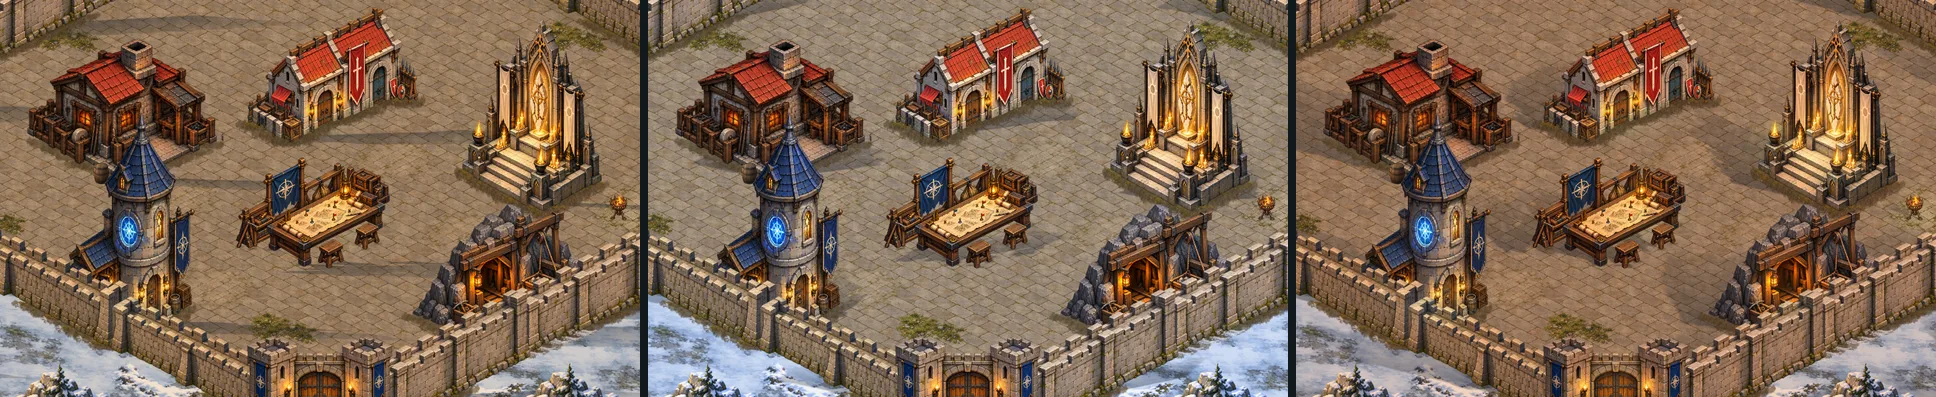
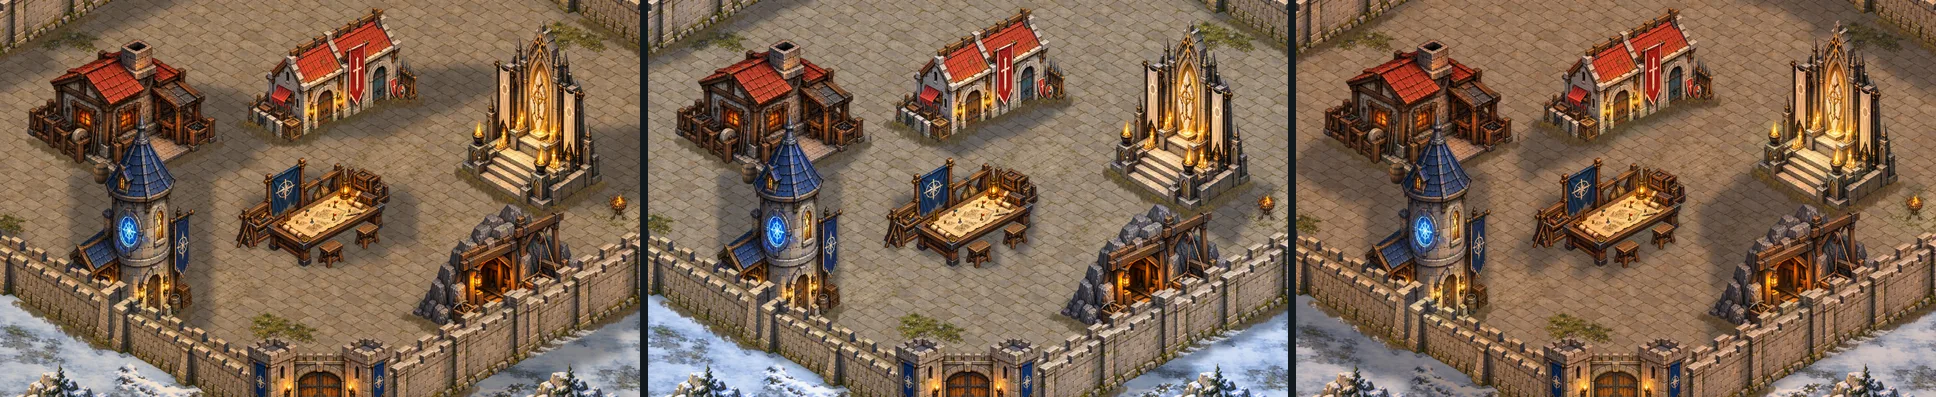
Cast Stronghold sun shadows from solid footprints instead of sheared silhouettes
Shearing a flat sprite silhouette along the sun collapsed it into a thin
sliver: with a low sun every building, wall and tree drew a long stripe
across the court, detached from its base.

- Each upright sprite now stands on a ground footprint: its bottom
  contour, reflected through the contour's end midpoint for the hidden
  back edge (round crown footprints for trees). Per column the sun sweeps
  that footprint by the roof-line height, filled into one 0.35x mask and
  blurred once, so overlaps never double-darken.
- The sun follows the painted art (lit from the upper left): short
  shadows to the lower right at noon, long to the right after sunrise and
  to the left before sunset; length capped at 1.7x height.
- Columns are filled one by one: a single Path2D of thousands of
  subpaths took ~1 s to build in Chrome.
- Docs, before/after images and verification report updated.

diff --git a/src/stronghold/world-view.ts b/src/stronghold/world-view.ts
@@ -43,20 +43,51 @@ export async function createWorldView(canvas:HTMLCanvasElement,onSelect:(id:Buil
  const sc=surface.getContext('2d')!;let dirty=true,frame=0;
  // Day/night lighting is composited into this surface after each raster; see lighting.ts.
  const lighting=createLighting({surface,snowLayer,left,top,width:worldWidth,height:worldHeight,onSun:()=>{dirty=true;requestDraw();}});lighting.setScene(objects);
- // Cast shadows: each upright sprite's silhouette, sheared along the sun's ground direction from its foot.
- // Silhouettes are built once per file (small, pre-blurred, fading with height) so a sun step is plain blits.
- const silhouettes=new Map<string,HTMLCanvasElement>();
- function silhouette(p:{file:string;image:HTMLImageElement;foot:number}){
-  let c=silhouettes.get(p.file);if(c)return c;const k=Math.min(1,256/p.image.width);c=document.createElement('canvas');c.width=Math.ceil(p.image.width*k);c.height=Math.ceil(p.image.height*k);
-  const x=c.getContext('2d')!;x.filter='blur(1.5px)';x.drawImage(p.image,0,0,c.width,c.height);x.filter='none';x.globalCompositeOperation='source-in';
-  const g=x.createLinearGradient(0,0,0,c.height*p.foot);g.addColorStop(0,'rgba(20,28,44,.2)');g.addColorStop(1,'rgba(20,28,44,1)');x.fillStyle=g;x.fillRect(0,0,c.width,c.height);
-  silhouettes.set(p.file,c);return c;
+ // Cast shadows: every upright sprite stands as a solid on its ground footprint. Per sprite column the
+ // footprint spans back..front on screen and the roof line rises `height` above the back edge; the sun
+ // sweeps that span along its ground offset, so a long morning shadow keeps the footprint's depth
+ // instead of collapsing into a sheared sliver. Columns are built once per placed sprite; a sun step
+ // fills them opaque into one 0.35x mask (so overlaps never double-darken) and blurs it once.
+ // Each column is filled on its own: one Path2D of ~7k subpaths took ~1 s to build in Chrome.
+ type Column={x:number;w:number;back:number;front:number;height:number};
+ const profiles=new Map<string,{top:Float32Array;bottom:Float32Array}>(),footprints=new Map<string,Column[]>();
+ // Topmost and lowest opaque pixel of each source column, as fractions of the sprite height (-1 when empty).
+ function profile(image:HTMLImageElement){
+  let r=profiles.get(image.src);if(r)return r;const n=Math.min(256,image.width),m=Math.ceil(image.height*n/image.width),c=document.createElement('canvas');c.width=n;c.height=m;
+  const x=c.getContext('2d',{willReadFrequently:true})!;x.drawImage(image,0,0,n,m);const d=x.getImageData(0,0,n,m).data,top=new Float32Array(n).fill(-1),bottom=new Float32Array(n).fill(-1);
+  for(let i=0;i<n;i++)for(let y=0;y<m;y++)if(d[(y*n+i)*4+3]>128){if(top[i]<0)top[i]=y/m;bottom[i]=(y+1)/m;}
+  r={top,bottom};profiles.set(image.src,r);return r;
  }
+ // Trees stand on a round crown footprint; everything else on its bottom contour reflected through the
+ // midpoint of its left and right ends (a footprint parallelogram is centrally symmetric), which
+ // recovers the hidden back edge of buildings, walls and rocks under any calibrated shear.
+ const round=/^(spruce-mature|fir-young)$/;
+ function footprint(p:(typeof objects)[number]){
+  const key=p.file+'|'+p.x+'|'+p.y+'|'+p.width;let cols=footprints.get(key);if(cols)return cols;cols=[];
+  const {top,bottom}=profile(p.image),n=top.length,filled=[...top.keys()].filter(i=>top[i]>=0),first=filled[0],last=filled[filled.length-1];
+  const at=(u:number,t:number)=>{const lx=-p.width/2+(u+.5)/n*p.width;return {x:p.x+lx,y:p.y+p.shear*lx+p.vertical*(t-p.foot)*p.height};};
+  const front=(j:number)=>{if(j<first||j>last)return -1;const a=bottom[Math.floor(j)],b=bottom[Math.ceil(j)];return a<0?b:b<0?a:a+(b-a)*(j-Math.floor(j));};
+  const ci=(first+last)/2,cy=(bottom[first]+bottom[last])/2;
+  // Columns about 3.5 world px apart; the low-resolution blurred mask hides anything finer.
+  const stride=Math.max(1,Math.round(3.5*n/p.width)),w=p.width/n*stride*1.2;
+  for(let i=first;i<=last;i+=stride){if(top[i]<0)continue;const t=at(i,top[i]);let back:number,front0:number;
+   if(round.test(p.id)){const rx=p.width*.3,d=(t.x-p.x)/rx,s=Math.abs(d)<1?rx*.5*Math.sqrt(1-d*d):0;back=p.y-s;front0=p.y+s;}
+   else{const f=at(i,bottom[i]).y,r=front(2*ci-i);front0=f;back=r<0?f:Math.min(f,at(i,2*cy-r).y);}
+   cols.push({x:t.x,w,back,front:front0,height:Math.max(0,back-t.y)});}
+  footprints.set(key,cols);return cols;
+ }
+ const hull=(points:[number,number][])=>{points.sort((a,b)=>a[0]-b[0]||a[1]-b[1]);const cross=(o:number[],a:number[],b:number[])=>(a[0]-o[0])*(b[1]-o[1])-(a[1]-o[1])*(b[0]-o[0]),chain=(list:[number,number][])=>{const h:[number,number][]=[];for(const q of list){while(h.length>1&&cross(h[h.length-2],h[h.length-1],q)<=0)h.pop();h.push(q);}h.pop();return h;};return [...chain(points),...chain([...points].reverse())];};
+ const SHADE=.35,mask=document.createElement('canvas'),soft=document.createElement('canvas');mask.width=soft.width=Math.ceil(worldWidth*SHADE);mask.height=soft.height=Math.ceil(worldHeight*SHADE);
  function castShadows(){
-  const s=lighting.sun();if(!s.alpha)return;
+  const s=lighting.sun();if(!s.alpha)return;const m=mask.getContext('2d')!,g=soft.getContext('2d')!;
+  m.setTransform(1,0,0,1,0,0);m.clearRect(0,0,mask.width,mask.height);m.setTransform(SHADE,0,0,SHADE,-left*SHADE,-top*SHADE);m.fillStyle='rgb(20,28,44)';
   for(const p of objects){if(p.layer==='ground'||p.opacity<1)continue;
-   // Sprite-local (lx, ly) with ly < 0 above the foot lands at foot + (lx, shear*lx) + height*(dx, dy).
-   sc.save();sc.globalAlpha=s.alpha;sc.translate(p.x,p.y);sc.transform(1,p.shear,-s.dx,-s.dy,0,0);sc.drawImage(silhouette(p),-p.width/2,-p.height*p.foot,p.width,p.height);sc.restore();}
+   for(const c of footprint(p)){const vx=c.height*s.dx,vy=c.height*s.dy,a=c.x-c.w/2,b=c.x+c.w/2;
+    const h=hull([[a,c.back],[b,c.back],[a,c.front],[b,c.front],[a+vx,c.back+vy],[b+vx,c.back+vy],[a+vx,c.front+vy],[b+vx,c.front+vy]]);
+    m.beginPath();h.forEach(([x,y],i)=>i?m.lineTo(x,y):m.moveTo(x,y));m.fill();}}
+  // Penumbra widens with shadow length: crisp at noon, softer for the long low-sun shadows.
+  g.clearRect(0,0,soft.width,soft.height);g.filter=`blur(${(.7+Math.hypot(s.dx,s.dy*2)).toFixed(2)}px)`;g.drawImage(mask,0,0);g.filter='none';
+  sc.save();sc.globalAlpha=s.alpha;sc.drawImage(soft,left,top,worldWidth,worldHeight);sc.restore();
  }
  function paintWorld(){
   sc.setTransform(surface.width/worldWidth,0,0,surface.height/worldHeight,-left*surface.width/worldWidth,-top*surface.height/worldHeight);

diff --git a/src/stronghold/daylight.ts b/src/stronghold/daylight.ts
@@ -44,16 +44,18 @@ export function resolveTime(mode:Mode,now:number,query='',manual:number|null=nul
 }
 // ?lighting=day|night|dynamic picks the mode; the world-only view has no menu, so it is remembered.
 export function modeFrom(query:string,stored:unknown):Mode{const m=new URLSearchParams(query).get('lighting')??stored;return m==='day'||m==='night'?m:'dynamic';}
-// Sun for cast shadows: up from 06:00 to 18:00, crossing the sky from the
-// south-east. dx/dy is the ground offset per pixel of sprite height, in screen
-// space on the 2:1 isometric ground; alpha fades shadows in after sunrise and
-// out before sunset, so the night has none.
-export const SUNRISE=.25,SUNSET=.75,SHADOW_ALPHA=.42;
+// Sun for cast shadows: up from 06:00 to 18:00. The sprites are painted lit from the upper left, so at
+// noon the sun stands there and shadows fall short toward the lower right; the sun's azimuth then turns
+// 180 degrees through the day, so shadows reach long to the right after sunrise and long to the left
+// before sunset. dx/dy is the screen ground offset per screen pixel of height on the 2:1 ground (depth
+// halves, and a screen pixel of height is 1/cos 30 deg of world height); alpha fades shadows in after
+// sunrise and out before sunset, so the night has none.
+export const SUNRISE=.25,SUNSET=.75,SHADOW_ALPHA=.4,NOON_HEADING=60,MAX_ELEVATION=60,MAX_SHADOW=1.7;
 export type Sun={alpha:number;dx:number;dy:number;elevation:number};
 export function sunAt(t:number):Sun{
  const s=(wrap(t)-SUNRISE)/(SUNSET-SUNRISE);if(s<=0||s>=1)return {alpha:0,dx:0,dy:0,elevation:0};
- const arc=Math.sin(Math.PI*s),elevation=arc*55*Math.PI/180,length=Math.min(1.8,1/Math.tan(Math.max(elevation,.01)));
- // Shadow heading swings from lower right at sunrise, through upper right at noon, to upper left at sunset.
- const heading=(30-180*s)*Math.PI/180,fade=Math.min(1,arc/.35),alpha=SHADOW_ALPHA*fade*fade*(3-2*fade);
+ const arc=Math.sin(Math.PI*s),elevation=arc*MAX_ELEVATION*Math.PI/180,length=Math.min(MAX_SHADOW,1/Math.cos(Math.PI/6)/Math.tan(Math.max(elevation,.01)));
+ // Heading on the unsquashed ground, clockwise from screen right: -30 deg at sunrise, 60 at noon, 150 at sunset.
+ const heading=(NOON_HEADING+180*(s-.5))*Math.PI/180,fade=Math.min(1,arc/.35),alpha=SHADOW_ALPHA*fade*fade*(3-2*fade);
  return {alpha,dx:Math.cos(heading)*length,dy:Math.sin(heading)*length*.5,elevation};
 }

diff --git a/docs/lighting/README.md b/docs/lighting/README.md
@@ -16,9 +16,19 @@ One Stronghold day lasts **24 real minutes**: Night → Dawn → Day → Golden 
 
 ### Sun shadows
 
-From 06:00 to 18:00, every upright sprite (buildings, walls, bastions, gateway, trees, rocks, props) casts a soft shadow on the ground. The shadow follows the sun: long and pointing to the lower right after sunrise, short and falling away from the camera at noon, and long toward the upper left before sunset. Shadows fade in after sunrise and out before sunset, so there are none at night. The ambient tint darkens them further at golden hour.
+From 06:00 to 18:00, every upright sprite (buildings, walls, bastions, gateway, trees, rocks, props) casts a soft shadow on the ground. The sprites are painted lit from the upper left, so the sun stands there at noon and shadows fall short toward the lower right. Through the day the sun turns 180°, so shadows reach long to the right after sunrise and long to the left before sunset. Shadow length is capped at 1.7× the object's height, so low-sun shadows never flood the court. Shadows fade in after sunrise and out before sunset, so there are none at night. The ambient tint darkens them further at golden hour.
 
 ![Sun shadows at 07:30, 12:00 and 16:30](https://arkadia-stronghold-whachat.fural.space/lighting-plan/sun-shadows.webp)
+
+#### Fix: stray shadow stripes (21 October 2026)
+
+The first version drew each sprite's flat 2D silhouette sheared along the sun. A sprite has no depth, so with a low sun each shadow collapsed into a thin stripe that ran across the court, detached from its building (reported at 07:46 on mobile):
+
+![Bug report: thin horizontal shadow stripes across the court at 07:46](https://arkadia-stronghold-whachat.fural.space/lighting-plan/shadow-bug-report.webp)
+
+Shadows now come from a solid volume. Each object stands on a ground footprint, and the sun sweeps that footprint, topped by the sprite's roof line, across the ground. Same view at 07:45, before (left) and after (right):
+
+![07:45 before and after: stripes replaced by attached shadows](https://arkadia-stronghold-whachat.fural.space/lighting-plan/shadow-fix-0745.webp)
 
 ### In-game clock
 
@@ -83,7 +93,7 @@ lighting.compose -> screen.snow
 lighting.bake -> screen.flicker
 ```
 
-- **`daylight.ts`**: the pure clock. Keyframes are interpolated in linear light with smoothstep easing, and a readability floor keeps night ambient luma ≥ 0.22. It also handles the URL overrides and the manual clock time (`?time` > pinned hour > `?lighting` mode > live clock). `sunAt(t)` gives the shadow direction, length (capped at 1.8× sprite height) and strength.
+- **`daylight.ts`**: the pure clock. Keyframes are interpolated in linear light with smoothstep easing, and a readability floor keeps night ambient luma ≥ 0.22. It also handles the URL overrides and the manual clock time (`?time` > pinned hour > `?lighting` mode > live clock). `sunAt(t)` gives the shadow direction, length and strength. The heading on the ground is −30° at sunrise, 60° (lower right) at noon and 150° at sunset. Elevation peaks at 60°, length is capped at 1.7× height, and alpha peaks at 0.4.
 - **`light-anchors.ts`**: hand-authored light sources for the 10 lit sprites (Forge levels 1–3, Barracks, Altar, Mage Tower, Expedition Table, Mine, Gateway, Brazier). Each light stores sprite source-pixel coordinates (the same convention as `groundEdges`), a mask radius, its kind (`fire`, `window`, `candle`, `holy`, `arcane`), a ground-pool radius and drop, and an intensity. Lights hidden behind the front walls are mask-only, because the 2D lightmap has no occlusion.
 - **`lighting.ts`**:
   - On a building or selection change, it bakes a 0.35×-resolution light canvas: isometric (0.55-flattened) pools, white emissive masks and a colour bloom. Emissive masks are the authored circles intersected with a flame/arcane pixel test, so the parchment map, gold trim and red roofs never light up.
@@ -91,7 +101,7 @@ lighting.bake -> screen.flicker
   - The infinite snow uses a pre-tinted copy of its repeat tile (a `data:` URL).
   - The selected building gets a soft extra pool, so it stays readable at night.
   - The sun moves in 15-minute steps (15 real seconds of a live day). On a new step it asks the world view to re-raster, deferred while the camera moves. Clock ticks inside a step only relight.
-- **`world-view.ts`** has four lighting hooks: create, `capture()` after `paintWorld`, `place()` beside the surface transform, and `setScene()` in `update()`. It also draws the cast shadows in `paintWorld`, after the ground decals and before any upright sprite, so shadows never darken a building. Each sprite's silhouette is built once per file (≤ 256 px wide, pre-blurred, fading from the foot to the top) and drawn with the sprite's own shear plus the sun's ground offset per pixel of height. Pan frames are unchanged.
+- **`world-view.ts`** has four lighting hooks: create, `capture()` after `paintWorld`, `place()` beside the surface transform, and `setScene()` in `update()`. It also draws the cast shadows in `paintWorld`, after the ground decals and before any upright sprite, so shadows never darken a building. Each placed sprite is cut into columns about 3.5 world px apart. A column spans its footprint from the back edge to the front edge, and its height is the roof line's height above the back edge. The footprint's front edge is the sprite's lowest opaque pixel in that column. The hidden back edge is that contour reflected through the midpoint of its left and right ends (a footprint parallelogram is centrally symmetric, under any calibrated shear). Trees use a round crown footprint instead. On each sun step, every column's footprint is swept along the sun's offset × height (a convex hexagon) and filled opaque into one 0.35× mask, so overlapping shadows never double-darken. The mask is blurred once (a wider penumbra for longer shadows) and blitted at the shadow alpha. Columns are built once per sprite. Each column is filled on its own, because building one Path2D with thousands of subpaths took about 1 s in Chrome. Pan frames are unchanged.
 - **`clock.ts`** is the clock chip and panel. `main.ts` mounts it with `worldView.setTime` and `worldView.subscribeClock`.
 
 ### Departures from the plan, with reasons
@@ -103,7 +113,7 @@ lighting.bake -> screen.flicker
 | Header chip + Lighting menu | URL controls, then a single clock chip | The Stronghold is world-only. Lighting was first URL-only, but nobody could see it change during the day, so a single clock chip was added in the top-right corner |
 | Always-on flicker | Flicker layer hidden while the camera moves | It is the only live blended layer. While the camera is still, its cost does not affect panning |
 
-Memory: the unlit copy doubles the world raster (3738 × 2243 px ≈ 33 MB, so about 67 MB in total). Dawn and dusk recompose every few seconds, deferred while the camera moves. Each recompose re-uploads the surface texture once. By day the world also re-rasters once per 15-minute sun step (every 15 s of a live day). Silhouettes add about 1–2 MB.
+Memory: the unlit copy doubles the world raster (3738 × 2243 px ≈ 33 MB, so about 67 MB in total). Dawn and dusk recompose every few seconds, deferred while the camera moves. Each recompose re-uploads the surface texture once. By day the world also re-rasters once per 15-minute sun step (every 15 s of a live day), deferred while the camera moves. That re-raster takes about 0.71 s in headless Chromium on this host, against 0.68 s before cast shadows. Its longest task under 4× CPU throttling is 1.9 s, against 1.6 s before. The shadow mask and its blurred copy add about 2 MB.
 
 ## Verification
 
@@ -118,7 +128,7 @@ Memory: the unlit copy doubles the world raster (3738 × 2243 px ≈ 33 MB, so a
   - `?lighting` persistence works.
   - A night roof click selects the Forge and relights the selection.
   - Reduced motion stops the flicker.
-  - **Mobile pan** (390 × 844, DPR 3, 4× CPU, best of 3): zero world repaints; median 16.6 ms by day and at night, p95 17.6 vs 17.3 ms (unchanged with sun shadows).
+  - **Mobile pan** (390 × 844, DPR 3, 4× CPU, best of 3): zero world repaints. Median 16.6 ms by day and at night. Day p95 varied between 17.5 and 26.1 ms across three runs on the shared host (night 17.9–18.4 ms). Pan frames only move the baked surface, so cast shadows cannot change them.
 - These are headless Chromium (software compositing) results on a shared host, not physical-device FPS.
 
 ### Authoring lights
